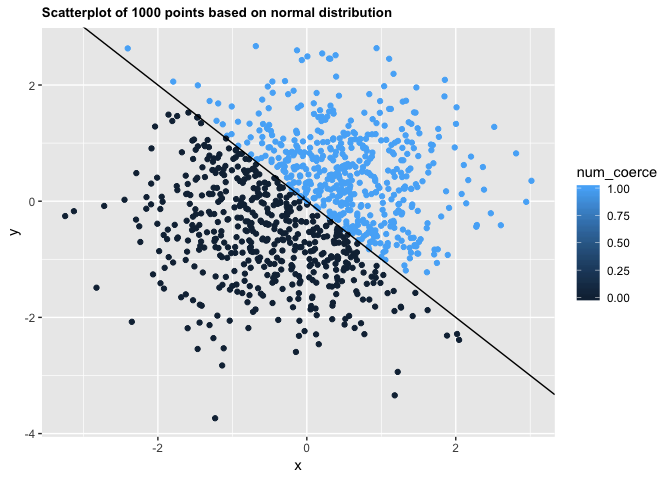
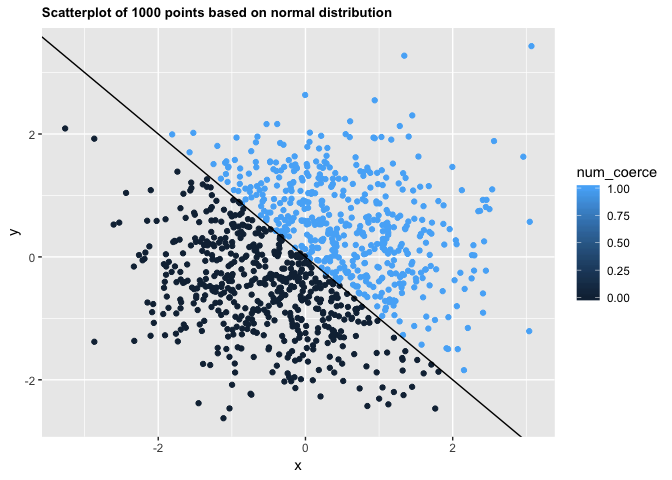
Addressing the mistakes I made in problem 1 (misread question)

diff --git a/p8105_hw1_zdz2101.md b/p8105_hw1_zdz2101.md
@@ -22,16 +22,16 @@ print(problem1_df)
     ## # A tibble: 10 x 4
     ##    numeric_vec logical_vec char_vec factor_vec
     ##          <dbl> <lgl>       <chr>    <fct>     
-    ##  1        1.67 FALSE       My       small     
-    ##  2        3.94 TRUE        name     medium    
-    ##  3        3.87 TRUE        is       large     
-    ##  4        4.42 TRUE        Zelos    small     
-    ##  5        4.17 TRUE        Zhu      medium    
-    ##  6        3.14 TRUE        and      large     
-    ##  7        3.34 TRUE        I        small     
-    ##  8        2.54 TRUE        like     medium    
-    ##  9        4.96 TRUE        to       large     
-    ## 10        1.89 FALSE       eat      x-large
+    ##  1        2.18 TRUE        My       small     
+    ##  2        2.73 TRUE        name     medium    
+    ##  3        3.38 TRUE        is       large     
+    ##  4        4.33 TRUE        Zelos    small     
+    ##  5        2.01 TRUE        Zhu      medium    
+    ##  6        4.80 TRUE        and      large     
+    ##  7        2.79 TRUE        I        small     
+    ##  8        1.92 FALSE       like     medium    
+    ##  9        1.16 FALSE       to       large     
+    ## 10        1.30 FALSE       eat      x-large
 
 ``` r
 #means <- apply(problem1_df, 2, mean) --- doesn't work
@@ -53,29 +53,38 @@ means_prob1 <- c(mean(problem1_df$numeric_vec),
 means_prob1
 ```
 
-    ## [1] 3.393229 0.800000       NA       NA
+    ## [1] 2.659472 0.700000       NA       NA
 
-The mean() function successfully worked for the numeric and logical vectors of the data frame while it produced NAs for the character and factor vectors. This makes sense: the mean of the first vector could be calculated since it is a numeric variable. It's exactly what we think it should be: the sum of the elements divided by the number of elements. As a result the mean is 3.39.
+The mean() function successfully worked for the numeric and logical vectors of the data frame while it produced NAs for the character and factor vectors. This makes sense: the mean of the first vector could be calculated since it is a numeric variable. It's exactly what we think it should be: the sum of the elements divided by the number of elements. As a result the mean is 2.66.
 
-Interestingly enough, the second vector in the data frame could also have a mean and that is because R seems to automatically consider FALSE into 0 and TRUE into 1. So, taking a "mean" of a logical allows us to see the proportion of TRUE cases, similarly if we were to take the sum we would see the total counts of TRUE's. As expected, a mean could not be taken from neither the character or factor varaibles and that is because character and factor variables cannot be used with traditional "mathematical" functions.
+Interestingly enough, the second vector in the data frame could also have a mean and that is because R seems to automatically consider FALSE into 0 and TRUE into 1. So, taking a "mean" of a logical allows us to see the proportion of TRUE cases, similarly if we were to take the sum we would see the total counts of TRUE's.
 
-``` r
-mean_converted_char <- mean(as.numeric(as.factor(problem1_df$char_vec)))
-mean_converted_char
-```
-
-    ## [1] 5.5
+As expected, a mean could not be taken from neither the character or factor varaibles and that is because character and factor variables cannot be used with traditional "mathematical" functions. As a result taking their means produce a warning and the value we get is NA.
 
 ``` r
-mean_converted_factor <- mean(as.numeric(problem1_df$factor_vec))
-mean_converted_factor
+as.numeric(problem1_df$logical_vec)
+as.numeric(problem1_df$char_vec)
+as.numeric(problem1_df$factor_vec)
 ```
 
-    ## [1] 2.2
+The logical vector turned into a vector of 0's and 1's, the FALSEs being 0, the TRUEs being 1.
 
-Once you convert character into factor and then numeric, you can use traditional math functions, but it has practically no meaning. So in the case of my character vector, I had 10 unique "character" values, which turned into 10 different levels of factors, and as a result when you convert the factor into numeric it turned into a jumbled mess of numbers: 6, 7, 4, 9, 10, 1, 3, 5, 8, 2. The mean of that is 5.5 but this does not particularly have much interpretability compared to the 10 word sentence I wrote.
+The character vector turned into a vector of NA's. Though I imagine if you wrote out numbers in character form, they can convert properly. For example, executing the line
 
-The same concept applies for my 4th factor vector, there are only 4 unique values, so it has 4 levels, so when coerced numerically it came out to 1, 2, 3, 1, 2, 3, 1, 2, 3, 4 and mean of that is 2.2. Again this does not quite have any sort of meaning compared to a vector of "sizes" which I initially created.
+as.numeric(c("1","2","3"))
+
+would properly display 1,2,3.
+
+The factor vector turns in a vector that consist of the numbers 1, 2, 3, 4. I'm assuming R assigns each level of a factor a number and when you use the as.numeric() function with it, it pulls these numbers.
+
+``` r
+as.numeric(as.factor(problem1_df$char_vec))
+as.numeric(as.character(problem1_df$factor_vec))
+```
+
+When you convert the character vector into a factor, it turns into a vector of 10 levels because I had 10 unique values, in which case when as.numeric() is applied it turns into a scrambled mess of the numbers 1 to 10.
+
+When you convert the factor vector into character and then attempt to use as.numeric() it displays a warning and we get a vector of NA's.
 
 Problem 2
 =========
@@ -92,14 +101,25 @@ print(head(problem2_df))
     ## # A tibble: 6 x 5
     ##        x       y is_sum_positive num_coerce factor_coerce
     ##    <dbl>   <dbl> <lgl>                <dbl> <fct>        
-    ## 1 -1.38  -0.798  FALSE                    0 FALSE        
-    ## 2  2.38   0.199  TRUE                     1 TRUE         
-    ## 3  0.130  0.749  TRUE                     1 TRUE         
-    ## 4  0.163  0.0996 TRUE                     1 TRUE         
-    ## 5 -0.493 -1.08   FALSE                    0 FALSE        
-    ## 6 -0.600  0.998  TRUE                     1 TRUE
+    ## 1  1.23  -0.269  TRUE                     1 TRUE         
+    ## 2  0.643  1.19   TRUE                     1 TRUE         
+    ## 3 -0.306 -0.390  FALSE                    0 FALSE        
+    ## 4  1.29   0.168  TRUE                     1 TRUE         
+    ## 5  0.593  0.513  TRUE                     1 TRUE         
+    ## 6 -1.36  -0.0634 FALSE                    0 FALSE
 
-The size of the dataset is 1000 rows and 5 columns. The mean of x is 0.02. The median of x is 0.09. The proportion of cases for which the logical vector is TRUE is 0.5.
+``` r
+str(problem2_df)
+```
+
+    ## Classes 'tbl_df', 'tbl' and 'data.frame':    1000 obs. of  5 variables:
+    ##  $ x              : num  1.229 0.643 -0.306 1.291 0.593 ...
+    ##  $ y              : num  -0.269 1.188 -0.39 0.168 0.513 ...
+    ##  $ is_sum_positive: logi  TRUE TRUE FALSE TRUE TRUE FALSE ...
+    ##  $ num_coerce     : num  1 1 0 1 1 0 1 1 0 0 ...
+    ##  $ factor_coerce  : Factor w/ 2 levels "FALSE","TRUE": 2 2 1 2 2 1 2 2 1 1 ...
+
+The size of the dataset is 1000 rows (observations) and 5 columns (variables). The mean of x is -0.01. The median of x is -0.04. The proportion of cases for which the logical vector is TRUE is 0.48.
 
 ``` r
 hw1plot_1 <- (ggplot(problem2_df, aes(x=x, y=y))
@@ -124,6 +144,12 @@ hw1plot_1
 ```
 
 ![](p8105_hw1_zdz2101_files/figure-markdown_github/Prob2%20graphs-1.png)
+
+``` r
+ggsave(filename = "hw1plot1.png")
+```
+
+    ## Saving 7 x 5 in image
 
 ``` r
 hw1plot_2
